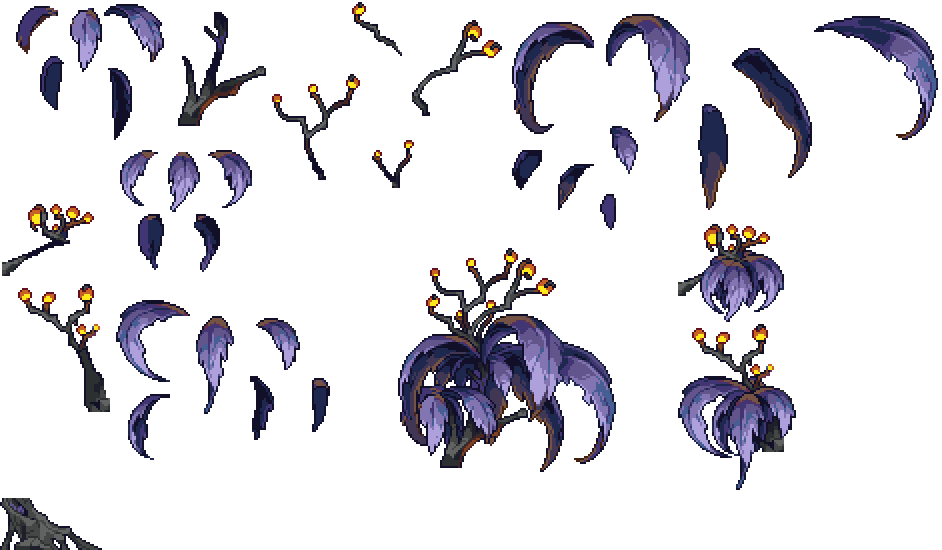
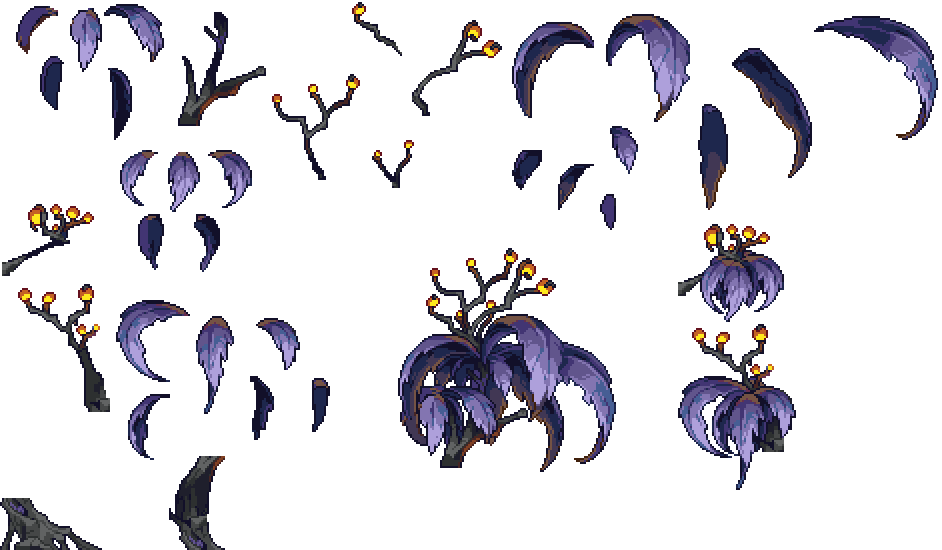
Add animation lamp wood......huh

Changed region(s): [[0.1847, 0.8036, 0.2463, 1.0], [0.5234, 0.1855, 0.5849, 0.2473]]

diff --git a/Sources/Modules/Yggdrasil/YggdrasilTown/Tiles/LampWood/LampWood_newStyleTree_0.cs b/Sources/Modules/Yggdrasil/YggdrasilTown/Tiles/LampWood/LampWood_newStyleTree_0.cs
@@ -1,3 +1,4 @@
+using Everglow.Commons.DataStructures;
 using Everglow.Commons.TileHelper;
 using Everglow.Yggdrasil.YggdrasilTown.Dusts;
 using Everglow.Yggdrasil.YggdrasilTown.Items.LampWood;
@@ -24,20 +25,15 @@ public class LampWood_newStyleTree_0 : ShapeDataTile, ITileFluentlyDrawn
 	}
 	public override bool PreDraw(int i, int j, SpriteBatch spriteBatch)
 	{
-		Tile tile = Main.tile[i, j];
-		if (tile.TileFrameX == 128 && tile.TileFrameY == 176)
-		{
-			TileFluentDrawManager.AddFluentPoint(this, i, j);
-		}
-		return base.PreDraw(i, j, spriteBatch);
+
+		return false;
 	}
 	public void FluentDraw(Vector2 screenPosition, Point pos, SpriteBatch spriteBatch, TileDrawing tileDrawing)
 	{
 		var tile = Main.tile[pos];
 		var drawCenterPos = pos.ToWorldCoordinates(autoAddY: 16) - screenPosition;
-		Rectangle Frame(int y) => new Rectangle(tile.TileFrameX / 72 * 100, y, 100, 92);
-		Point SwayHitboxPos(int addX) => new Point(pos.X + addX, pos.Y);
-		Point PaintPos(int addY) => new Point(pos.X, pos.Y - addY);
+		Point SwayHitboxPos(int addX, int addY) => new Point(pos.X + addX, pos.Y + addY);
+		Point PaintPos(int addX, int addY) => new Point(pos.X + addX, pos.Y + addY);
 
 		var drawInfo = new BasicDrawInfo()
 		{
@@ -46,18 +42,100 @@ public class LampWood_newStyleTree_0 : ShapeDataTile, ITileFluentlyDrawn
 			TileDrawing = tileDrawing
 		};
 
-		DrawShrubPiece(Frame(0), 0.1f, SwayHitboxPos(0), PaintPos(1), drawInfo);
-		DrawShrubPiece(Frame(96), 0.12f, SwayHitboxPos(0), PaintPos(1), drawInfo);
-		DrawShrubPiece(Frame(192), 0.104f, SwayHitboxPos(-1), PaintPos(2), drawInfo);
-		DrawShrubPiece(Frame(288), 0.075f, SwayHitboxPos(-1), PaintPos(2), drawInfo);
-		DrawShrubPiece(Frame(384), 0.053f, SwayHitboxPos(1), PaintPos(3), drawInfo);
-		DrawShrubPiece(Frame(480), 0, SwayHitboxPos(-1), PaintPos(2), drawInfo);
+
+		//back Leaves
+
+		//branch_1_leaf_5
+		DrawBranchPiece(new Rectangle(698, 104, 30, 106), -0.045f, SwayHitboxPos(2, -4), PaintPos(2, -4), new Vector2(9, 8), new Vector2(9, -92), 1, 5, drawInfo);
+		//branch_1_leaf_4
+		DrawBranchPiece(new Rectangle(732, 48, 80, 130), -0.047f, SwayHitboxPos(2, -4), PaintPos(1, -4), new Vector2(1, 15), new Vector2(5, -83), 5, 7, drawInfo);
+		//branch_1_leaf_8
+		DrawBranchPiece(new Rectangle(600, 194, 16, 36), -0.034f, SwayHitboxPos(2, -4), PaintPos(1, -3), new Vector2(36, 0), new Vector2(22, -80), 1, 2, drawInfo);
+		//branch_1_leaf_7
+		DrawBranchPiece(new Rectangle(558, 164, 36, 46), -0.028f, SwayHitboxPos(2, -4), PaintPos(-1, -3), new Vector2(36, 0), new Vector2(-10, -86), 1, 1, drawInfo);
+		//branch_1_leaf_6
+		DrawBranchPiece(new Rectangle(512, 150, 30, 40), -0.042f, SwayHitboxPos(2, -4), PaintPos(0, -3), new Vector2(30, 0), new Vector2(-2, -82), 1, 2, drawInfo);
+
+
+		//branch_2_leaf_0
+		DrawBranchPiece(new Rectangle(40, 56, 24, 54), -0.104f, SwayHitboxPos(-2, -1), PaintPos(0, 0), new Vector2(21, 6), new Vector2(-42, -44), 1, 1, drawInfo);
+		//branch_2_leaf_1
+		DrawBranchPiece(new Rectangle(108, 68, 24, 72), -0.109f, SwayHitboxPos(-2, -1), PaintPos(0, 0), new Vector2(0, 0), new Vector2(-40, -46), 1, 1, drawInfo);
+
+
+		//branches
+		//trunk_0
+		DrawBranchPiece(new Rectangle(178, 12, 88, 114), -0.0f, SwayHitboxPos(-2, -1), PaintPos(0, 0), new Vector2(9, 113), new Vector2(-31, 27), 1, 1, drawInfo);
+		//trunk_1
+		DrawBranchPiece(new Rectangle(169, 456, 56, 94), -0.0f, SwayHitboxPos(-2, -1), PaintPos(0, 0), new Vector2(34, 93), new Vector2(-28, 95), 1, 1, drawInfo);
+		//root_0
+		DrawBranchPiece(new Rectangle(0, 498, 102, 52), -0.0f, SwayHitboxPos(-2, -1), PaintPos(0, 0), new Vector2(52, 51), new Vector2(0, 129), 1, 1, drawInfo);
+		//branch_1_flower_2
+		DrawBranchPiece(new Rectangle(352, 2, 50, 54), 0.067f, SwayHitboxPos(-2, -6), PaintPos(0, 0), new Vector2(49, 53), new Vector2(-5, -93), 3, 3, drawInfo);
+		//branch_1_flower_3
+		DrawBranchPiece(new Rectangle(372, 140, 42, 48), 0.071f, SwayHitboxPos(0, -7), PaintPos(0, 0), new Vector2(23, 47), new Vector2(-3, -93), 3, 3, drawInfo);
+
+
+		Vector2 rotMoved = GetInfoRotatedMoved(0.037f, SwayHitboxPos(1, 2), 4, 3, new Vector2(59, -33), drawInfo);
+		//branch_4_leaf_3
+		DrawBranchPiece(new Rectangle(138, 214, 26, 56), -0.057f, SwayHitboxPos(1, 4), PaintPos(0, 0), new Vector2(21, 0), new Vector2(15, 34) + rotMoved, 1, 3, drawInfo);
+		//branch_4_leaf_4
+		DrawBranchPiece(new Rectangle(194, 214, 26, 58), -0.062f, SwayHitboxPos(3, 4), PaintPos(0, 0), new Vector2(2, 6), new Vector2(28, 36) + rotMoved, 2, 2, drawInfo);
+		//branch_4_flower_0
+		DrawBranchPiece(new Rectangle(2, 204, 92, 72), 0.037f, SwayHitboxPos(1, 2), PaintPos(0, 0), new Vector2(0, 67), new Vector2(-36, 71), 4, 3, drawInfo);
+		//branch_4_leaf_0
+		DrawBranchPiece(new Rectangle(120, 150, 38, 56), -0.117f, SwayHitboxPos(1, 5), PaintPos(0, 0), new Vector2(37, 3), new Vector2(23, 41) + rotMoved, 1, 2, drawInfo);
+		//branch_4_leaf_1
+		DrawBranchPiece(new Rectangle(208, 150, 44, 58), -0.122f, SwayHitboxPos(4, 4), PaintPos(0, 0), new Vector2(0, 5), new Vector2(26, 39) + rotMoved, 2, 4, drawInfo);
+		//branch_4_leaf_2
+		DrawBranchPiece(new Rectangle(168, 152, 32, 60), -0.176f, SwayHitboxPos(2, 5), PaintPos(0, 0), new Vector2(15, 0), new Vector2(23, 42) + rotMoved, 2, 3, drawInfo);
+
+		//branch_1_flower_0
+		DrawBranchPiece(new Rectangle(272, 74, 88, 106), 0.07f, SwayHitboxPos(-2, -10), PaintPos(0, 0), new Vector2(49, 105), new Vector2(-1, -87), 5, 6, drawInfo);
+		//branch_1_flower_1
+		DrawBranchPiece(new Rectangle(412, 20, 90, 96), 0.06f, SwayHitboxPos(1, -10), PaintPos(0, 0), new Vector2(13, 95), new Vector2(-1, -87), 5, 5, drawInfo);
+
+		//front leaves
+		//branch_2_leaf_2
+		DrawBranchPiece(new Rectangle(16, 6, 42, 48), -0.204f, SwayHitboxPos(-3, -1), PaintPos(0, 0), new Vector2(41, 7), new Vector2(-39, -47), 1, 1, drawInfo);
+		//branch_2_leaf_3
+		DrawBranchPiece(new Rectangle(104, 4, 60, 58), -0.164f, SwayHitboxPos(-1, -1), PaintPos(0, 0), new Vector2(0, 10), new Vector2(-42, -44), 1, 1, drawInfo);
+		//branch_2_leaf_4
+		DrawBranchPiece(new Rectangle(70, 8, 32, 64), -0.112f, SwayHitboxPos(-2, -1), PaintPos(0, 0), new Vector2(16, 1), new Vector2(-46, -47), 1, 1, drawInfo);
+		//branch_1_leaf_2
+		DrawBranchPiece(new Rectangle(814, 16, 124, 124), -0.186f, SwayHitboxPos(2, -4), PaintPos(1, -4), new Vector2(0, 14), new Vector2(12, -86), 8, 7, drawInfo);
+		//branch_1_leaf_3
+		DrawBranchPiece(new Rectangle(610, 126, 28, 48), -0.326f, SwayHitboxPos(2, -4), PaintPos(2, -3), new Vector2(2, 2), new Vector2(8, -86), 2, 2, drawInfo);
+		//branch_1_leaf_1
+		DrawBranchPiece(new Rectangle(512, 22, 82, 96), -0.162f, SwayHitboxPos(-4, -5), PaintPos(1, -4), new Vector2(81, 25), new Vector2(-1, -81), 6, 5, drawInfo);
+		//branch_1_leaf_0
+		DrawBranchPiece(new Rectangle(606, 14, 84, 108), -0.172f, SwayHitboxPos(1, -6), PaintPos(1, -4), new Vector2(3, 51), new Vector2(3, -75),6, 6, drawInfo);
+
+		//branch_3_trunk_0
+		DrawBranchPiece(new Rectangle(76, 352, 34, 60), 0, SwayHitboxPos(-6, -2), PaintPos(0, 0), new Vector2(24, 59), new Vector2(-40, 75), 5, 4, drawInfo);
+		//branch_3_leaf_4
+		DrawBranchPiece(new Rectangle(312, 378, 18, 54), -0.107f, SwayHitboxPos(-3, 2), PaintPos(-4, 4), new Vector2(6, 9), new Vector2(-64, 11), 1, 4, drawInfo);
+		//branch_3_leaf_5
+		DrawBranchPiece(new Rectangle(250, 376, 24, 64), -0.113f, SwayHitboxPos(-2, 3), PaintPos(-4, 4), new Vector2(0, 0), new Vector2(-64, 12), 1, 2, drawInfo);
+		//branch_3_flower_0
+		DrawBranchPiece(new Rectangle(18, 284, 82, 68), 0.027f, SwayHitboxPos(-6, -1), PaintPos(-4, 4), new Vector2(64, 67), new Vector2(-58, 15), 5, 4, drawInfo);
+		//branch_3_leaf_0
+		DrawBranchPiece(new Rectangle(116, 300, 74, 82), -0.152f, SwayHitboxPos(-7, 2), PaintPos(-4, 4), new Vector2(73, 15), new Vector2(-63, 15), 4, 5, drawInfo);
+		//branch_3_leaf_3
+		DrawBranchPiece(new Rectangle(128, 394, 42, 66), -0.161f, SwayHitboxPos(-5, 3), PaintPos(-4, 4), new Vector2(41, 0), new Vector2(-61, 14), 2, 4, drawInfo);
+		//branch_3_leaf_1
+		DrawBranchPiece(new Rectangle(196, 316, 38, 98), -0.162f, SwayHitboxPos(-4, 4), PaintPos(-4, 4), new Vector2(20, 0), new Vector2(-66, 16), 2, 5, drawInfo);
+		//branch_3_leaf_2
+		DrawBranchPiece(new Rectangle(256, 318, 44, 52), -0.158f, SwayHitboxPos(-2, 4), PaintPos(-4, 4), new Vector2(0, 7), new Vector2(-62, 17), 2, 2, drawInfo);
+
 	}
 	/// <summary>
 	/// 绘制一个树枝和叶子
 	/// </summary>
-	private void DrawShrubPiece(Rectangle frame, float swayStrength, Point tilePos, Point paintPos, BasicDrawInfo drawInfo, Color? specialColor = null)
+	private void DrawBranchPiece(Rectangle frame, float swayStrength, Point tilePos, Point paintPos, Vector2 drawOrigin, Vector2 offset, int pushWidth, int pushHeight, BasicDrawInfo drawInfo)
 	{
+		//是否在调试
+		bool adjusting = false;
 		var drawCenterPos = drawInfo.DrawCenterPos;
 		var spriteBatch = drawInfo.SpriteBatch;
 		var tileDrawing = drawInfo.TileDrawing;
@@ -71,35 +149,72 @@ public class LampWood_newStyleTree_0 : ShapeDataTile, ITileFluentlyDrawn
 
 		int paint = Main.tile[paintPos].TileColor;
 		int textureStyle = tile.TileFrameX + frame.Y * 50;
-		Texture2D tex = PaintedTextureSystem.TryGetPaintedTexture(ModAsset.DarkTaroPath, type, textureStyle, paint, tileDrawing);
-		tex ??= ModAsset.DarkTaro.Value;
+		Texture2D tex = PaintedTextureSystem.TryGetPaintedTexture(ModAsset.LampWood_newStyleTree_0_leavePath, type, textureStyle, paint, tileDrawing);
+		tex ??= ModAsset.LampWood_newStyleTree_0_leave.Value;
 
 		float windCycle = 0;
-		if (tileDrawing.InAPlaceWithWind(tilePos.X, tilePos.Y, 1, 1))
+		if (tileDrawing.InAPlaceWithWind(tilePos.X, tilePos.Y, pushWidth, pushHeight))
 			windCycle = tileDrawing.GetWindCycle(tilePos.X, tilePos.Y, tileDrawing._sunflowerWindCounter);
 
 		int totalPushTime = 80;
 		float pushForcePerFrame = 1.26f;
-		float highestWindGridPushComplex = tileDrawing.GetHighestWindGridPushComplex(tilePos.X, tilePos.Y, 1, 1, totalPushTime, pushForcePerFrame, 3, swapLoopDir: true);
+		float highestWindGridPushComplex = tileDrawing.GetHighestWindGridPushComplex(tilePos.X, tilePos.Y, pushWidth, pushHeight, totalPushTime, pushForcePerFrame, 3, swapLoopDir: true);
 		windCycle += highestWindGridPushComplex;
 		float rotation = windCycle * swayStrength;
+		if(adjusting)
+		{
+			rotation = 0;
+		}
 
 		// 颜色
 		Color tileLight = Lighting.GetColor(tilePos);
 		tileDrawing.DrawAnimatedTile_AdjustForVisionChangers(paintPos.X, paintPos.Y, tile, type, 0, 0, ref tileLight, tileDrawing._rand.NextBool(4));
 		tileLight = tileDrawing.DrawTiles_GetLightOverride(paintPos.Y, paintPos.X, tile, type, 0, 0, tileLight);
 
-		var origin = new Vector2(47, 95);
 		var tileSpriteEffect = SpriteEffects.None;
-		spriteBatch.Draw(tex, drawCenterPos + new Vector2(0, 6), frame, tileLight, rotation, origin, 1f, tileSpriteEffect, 0f);
+		float adjustingColor = 1;
+		if (adjusting)
+		{
+			adjustingColor = (MathF.Sin((float)Main.timeForVisualEffects * 0.15f) + 1) * 0.5f + 0.1f;
+		}
+		spriteBatch.Draw(tex, drawCenterPos + offset, frame, tileLight * adjustingColor, rotation, drawOrigin, 1f, tileSpriteEffect, 0f);
+	}
+	/// <summary>
+	/// 绘制一个树枝和叶子
+	/// </summary>
+	private Vector2 GetInfoRotatedMoved(float swayStrength, Point tilePos, int pushWidth, int pushHeight, Vector2 bone, BasicDrawInfo drawInfo)
+	{
+		//是否在调试
+		bool adjusting = false;
+
+		var tileDrawing = drawInfo.TileDrawing;
+
+		float windCycle = 0;
+		if (tileDrawing.InAPlaceWithWind(tilePos.X, tilePos.Y, pushWidth, pushHeight))
+			windCycle = tileDrawing.GetWindCycle(tilePos.X, tilePos.Y, tileDrawing._sunflowerWindCounter);
+
+		int totalPushTime = 80;
+		float pushForcePerFrame = 1.26f;
+		float highestWindGridPushComplex = tileDrawing.GetHighestWindGridPushComplex(tilePos.X, tilePos.Y, pushWidth, pushHeight, totalPushTime, pushForcePerFrame, 3, swapLoopDir: true);
+		windCycle += highestWindGridPushComplex;
+		float rotation = windCycle * swayStrength;
+		if (adjusting)
+		{
+			rotation = 0;
+		}
+		return bone.RotatedBy(rotation) - bone;
 	}
 	public override void PostDraw(int i, int j, SpriteBatch spriteBatch)
 	{
 		Tile tile = Main.tile[i, j];
-		var zero = new Vector2(Main.offScreenRange, Main.offScreenRange);
-
-		if (Main.drawToScreen)
-			zero = Vector2.Zero;
-		spriteBatch.Draw(ModAsset.LampWood_newStyleTree_0_glow.Value, new Vector2(i, j) * 16 - Main.screenPosition + zero, new Rectangle(tile.TileFrameX, tile.TileFrameY, 16, 16), new Color(1f, 1f, 1f, 0), 0, Vector2.zeroVector, 1, SpriteEffects.None, 0);
+		if (tile.TileFrameX == 144 && tile.TileFrameY == 198)
+		{
+			//var zero = new Vector2(Main.offScreenRange, Main.offScreenRange);
+			//if (Main.drawToScreen)
+			//	zero = Vector2.Zero;
+			//Texture2D tex = ModAsset.LampWood_newStyleTree_0_preview.Value;
+			//spriteBatch.Draw(tex, new Vector2(i, j) * 16 - Main.screenPosition + zero + new Vector2(-128, -176), null, Lighting.GetColor(i, j) * 0.5f, 0, Vector2.zeroVector, 1f, SpriteEffects.None, 0f);
+			TileFluentDrawManager.AddFluentPoint(this, i, j);
+		}
 	}
 }
